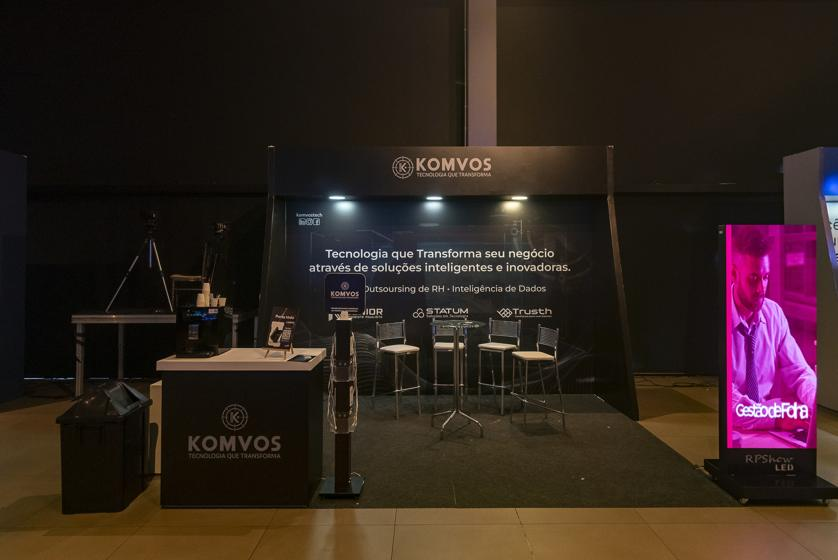
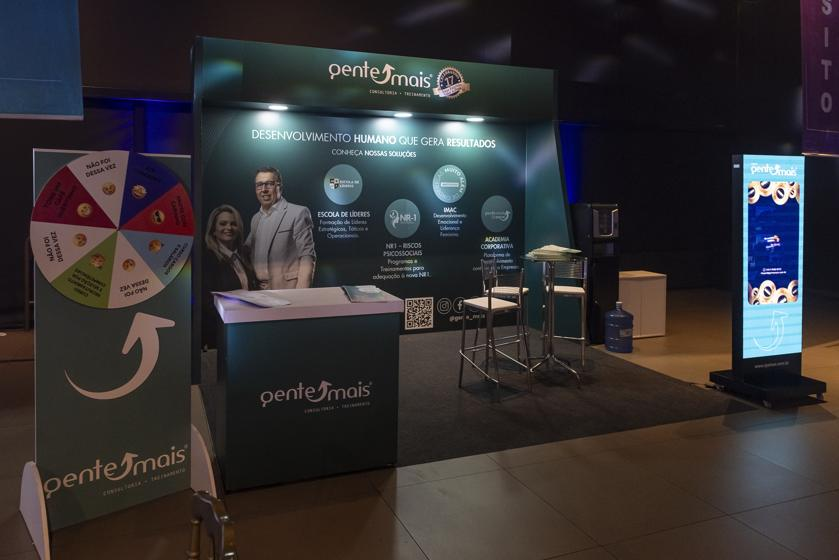
Troca fotos do estande KOMVOS pelo estande Gente Mais 2026
Claude-Session: https://claude.ai/code/session_015fJzKLRnhyp32M6Ed4YSku

diff --git a/congerhi-site/patrocinio.html b/congerhi-site/patrocinio.html
@@ -405,7 +405,7 @@ footer p b{color:#fff}
 /* ---------- foto de fundo do prêmio e patrocínio ---------- */
 #premio .premio-bg{position:absolute;inset:0;background:url(assets/premio-ser-gente.jpg) center 85%/cover;opacity:.07}
 #premio .wrap{position:relative}
-.biz .spons{background:linear-gradient(140deg,rgba(0,0,76,.92),rgba(0,47,78,.88)),url(assets/estande-2026.jpg) center/cover}
+.biz .spons{background:linear-gradient(140deg,rgba(0,0,76,.92),rgba(0,47,78,.88)),url(assets/estande-gm.jpg) center/cover}
 .tk .price .next{display:block;font-size:.8rem;color:#c2410c;font-weight:600;margin-top:4px}
 .tk-pass{border:2px solid var(--azul-luz)}
 .lotes{margin:34px auto 0;max-width:980px;background:#fff;border:1px solid #dde2e8;border-radius:20px;padding:24px 26px}
@@ -592,7 +592,7 @@ header.nav .logo img{height:34px}
 </style>
 <style>
 .ph{position:relative;min-height:78svh;display:flex;align-items:center;color:#fff;overflow:hidden;padding:140px 0 90px;margin-top:-74px;background:#071923}
-.ph-bg{position:absolute;inset:0;background:url(assets/estande-2026.jpg) center/cover;animation:kb 14s ease-out forwards}
+.ph-bg{position:absolute;inset:0;background:url(assets/estande-gm.jpg) center/cover;animation:kb 14s ease-out forwards}
 .ph-bg::after{content:"";position:absolute;inset:0;background:linear-gradient(90deg,rgba(7,25,35,.96),rgba(7,25,35,.75) 55%,rgba(7,25,35,.5))}
 .ph .wrap{position:relative;z-index:2}
 .ph h1{font-size:clamp(2.2rem,5vw,4.2rem);font-weight:900;line-height:1.02;max-width:820px;letter-spacing:-.02em}

diff --git a/congerhi-site/index.html b/congerhi-site/index.html
@@ -411,7 +411,7 @@ footer p b{color:#fff}
 /* ---------- foto de fundo do prêmio e patrocínio ---------- */
 #premio .premio-bg{position:absolute;inset:0;background:url(assets/premio-ser-gente.jpg) center 85%/cover;opacity:.07}
 #premio .wrap{position:relative}
-.biz .spons{background:linear-gradient(140deg,rgba(0,0,76,.92),rgba(0,47,78,.88)),url(assets/estande-2026.jpg) center/cover}
+.biz .spons{background:linear-gradient(140deg,rgba(0,0,76,.92),rgba(0,47,78,.88)),url(assets/estande-gm.jpg) center/cover}
 .tk .price .next{display:block;font-size:.8rem;color:#c2410c;font-weight:600;margin-top:4px}
 .tk-pass{border:2px solid var(--azul-luz)}
 .lotes{margin:34px auto 0;max-width:980px;background:#fff;border:1px solid #dde2e8;border-radius:20px;padding:24px 26px}
